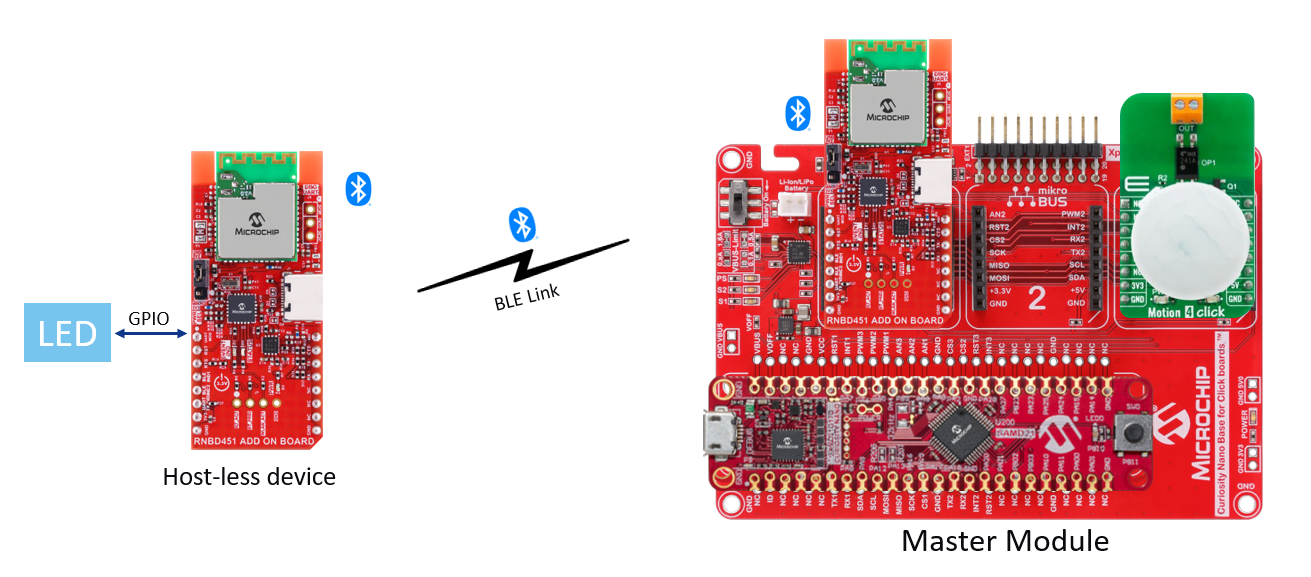
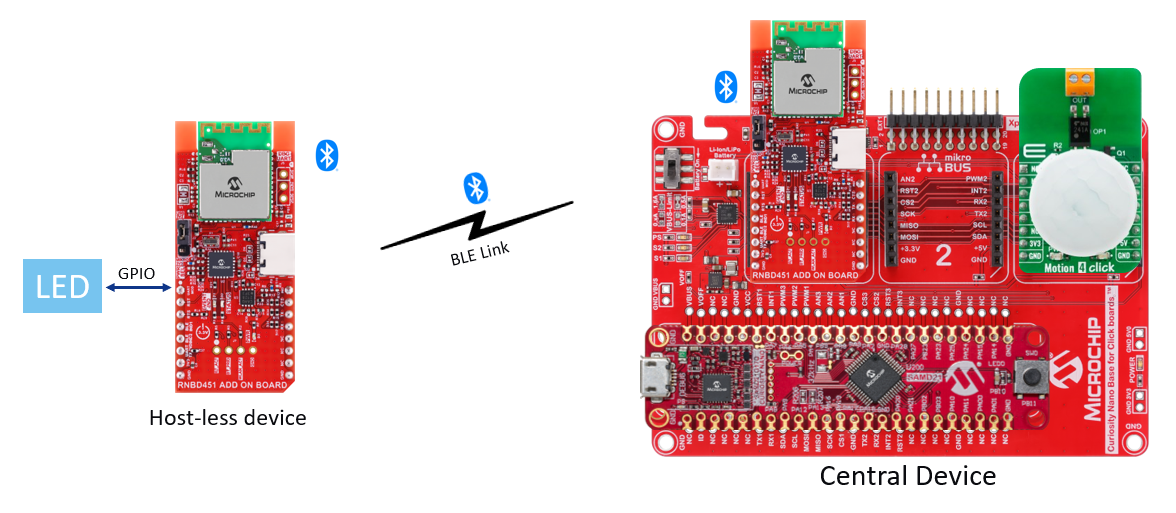
Updated documentation

diff --git a/README.md b/README.md
@@ -31,11 +31,11 @@ Checkout the <a href="https://microchipsupport.force.com/s/" target="_blank">Tec
 
 ## 1. Introduction<a name="step1">
 
-This application demonstrates the RNBD451 remote command feature. This feature allows the control of an RNBD451 module without the use of a host microcontroller remotely from either another RNBD451 module or a mobile application. The remote command feature works by using a special BLE GATT service that emulates a wireless serial connection called transparent UART mode. This combined with a unique command set allows remote functionality of the module. Two RNBD451 modules will be used for implementing the Remote command feature. One will be called the Master Module and the other will be Remote Module. The Master Module is connected to a host MCU device and is in control of the Remote Module. The Remote Module is host-less configured to connect to the Master module. 
+This application demonstrates the RNBD451 remote command feature. This feature allows the control of an RNBD451 module without the use of a host microcontroller remotely from either another RNBD451 module or a mobile application. The remote command feature works by using a special BLE GATT service that emulates a wireless serial connection called transparent UART mode. This combined with a unique command set allows remote functionality of the module. Two RNBD451 modules will be used for implementing the Remote command feature. One will be called the Central device and the other will be Remote/Host-less Module. The Central Module is connected to a host MCU device and is in control of the Remote Module. The Remote Module is host-less configured to connect to the Central module. 
 
 ![](Docs/Setup.PNG)
 
-This application uses SAMD21 Curiosity Nano board as the host for the Master module. On initialization the master module will establish a connection with the remote module and will be in Remote Command mode of the RNBD451 Remote/host-less Module. Once there is Motion detected on Host MCU the LED connected to the remote module will be toggled. 
+This application uses SAMD21 Curiosity Nano board as the host for the Central Device. On initialization the central will establish a connection with the remote module and will be in Remote Command mode of the RNBD451 Remote/host-less Module. Once there is Motion detected on Host MCU the LED connected to the remote module will be toggled. 
 
 
 ## 2. Bill of materials<a name="step2">
@@ -206,10 +206,10 @@ Follow the steps provided in the link to [Build and program the application](htt
 ![](Docs/Remote_setup.gif)
 
 
-### To configure the RNBD Master module
+### To configure the RNBD Central device
 
-- Once the Remote module is configured, Connect the SAMD21 Curiosity Nano Master setup.
+- Once the Remote module is configured, Connect the SAMD21 Curiosity Nano setup.
 - Enter "D" command on the remote module to get the MAC ID of the Remote command.
-- Enter this Mac ID in "main.c" in line42 and program the SAMD21 Curiosity Nano Master setup. After it initialises and enters into RMT mode(Remote command Mode) and a motion is detected the LED connected to the Remote module is  toggled.
+- Enter this Mac ID in "main.c" in line42 and program the SAMD21 Curiosity Nano setup. After it initialises and enters into RMT mode(Remote command Mode) and a motion is detected the LED connected to the Remote module is  toggled.
 
 ![](Docs/RNBD_Demo.gif)
